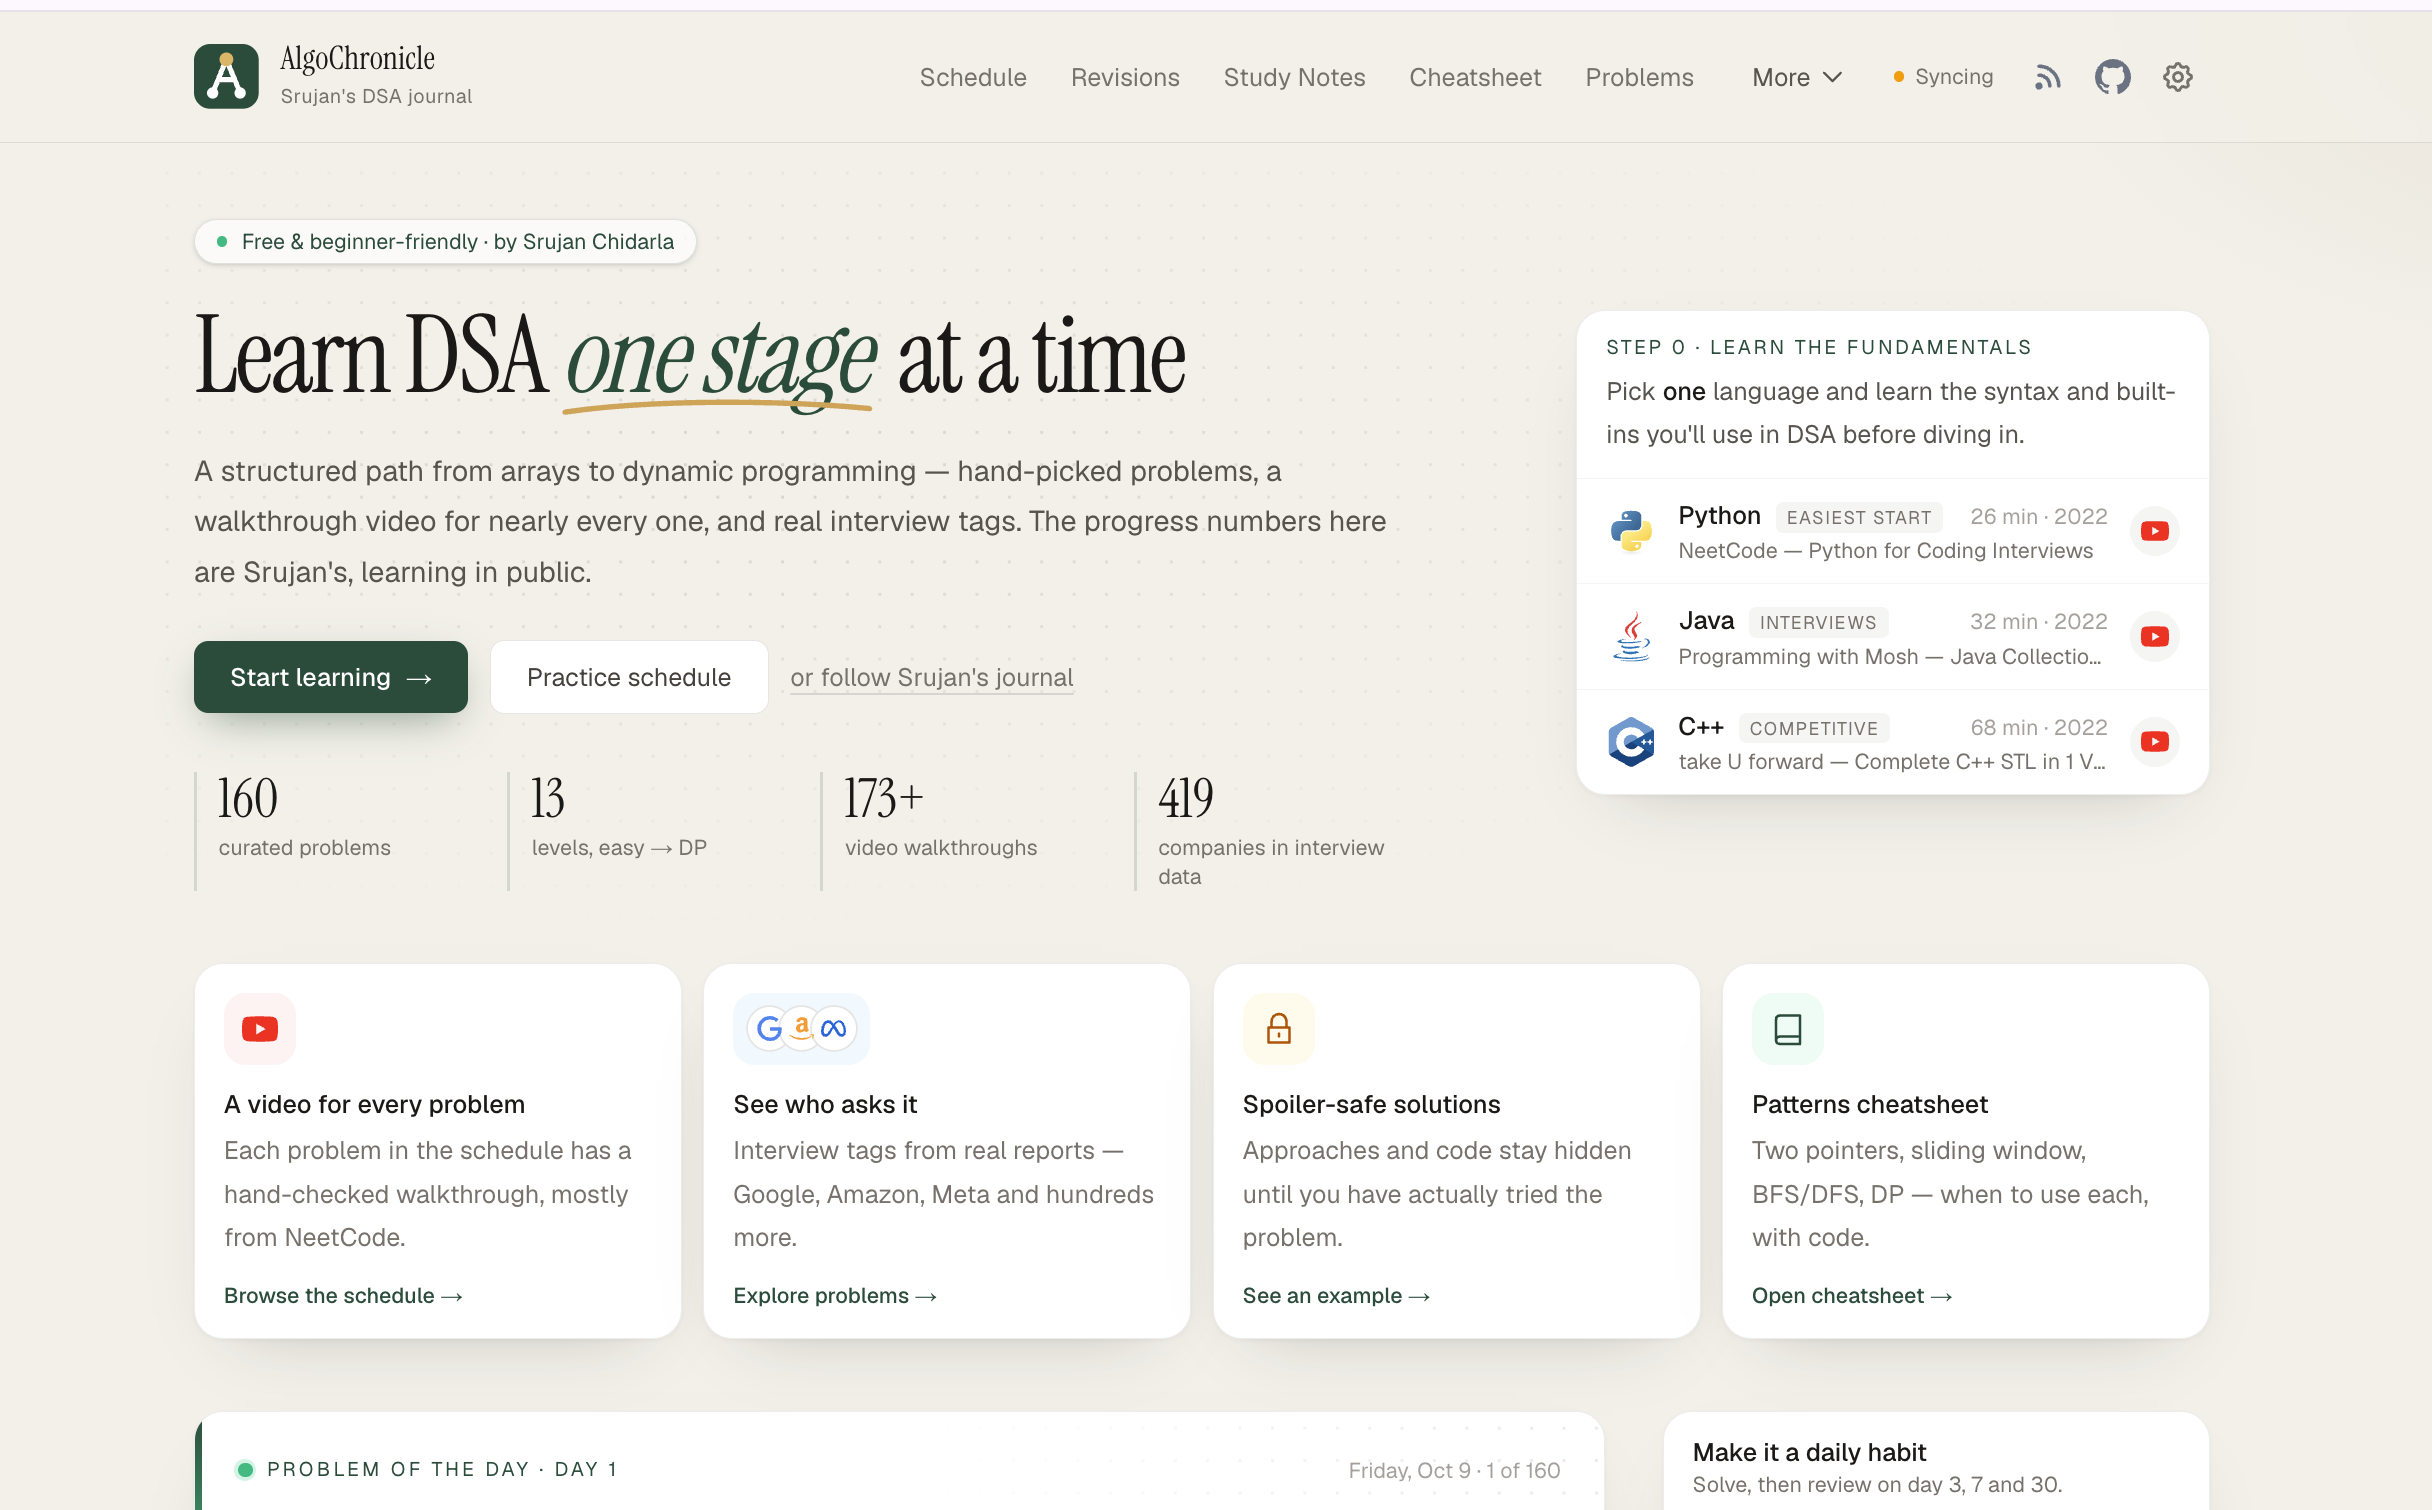
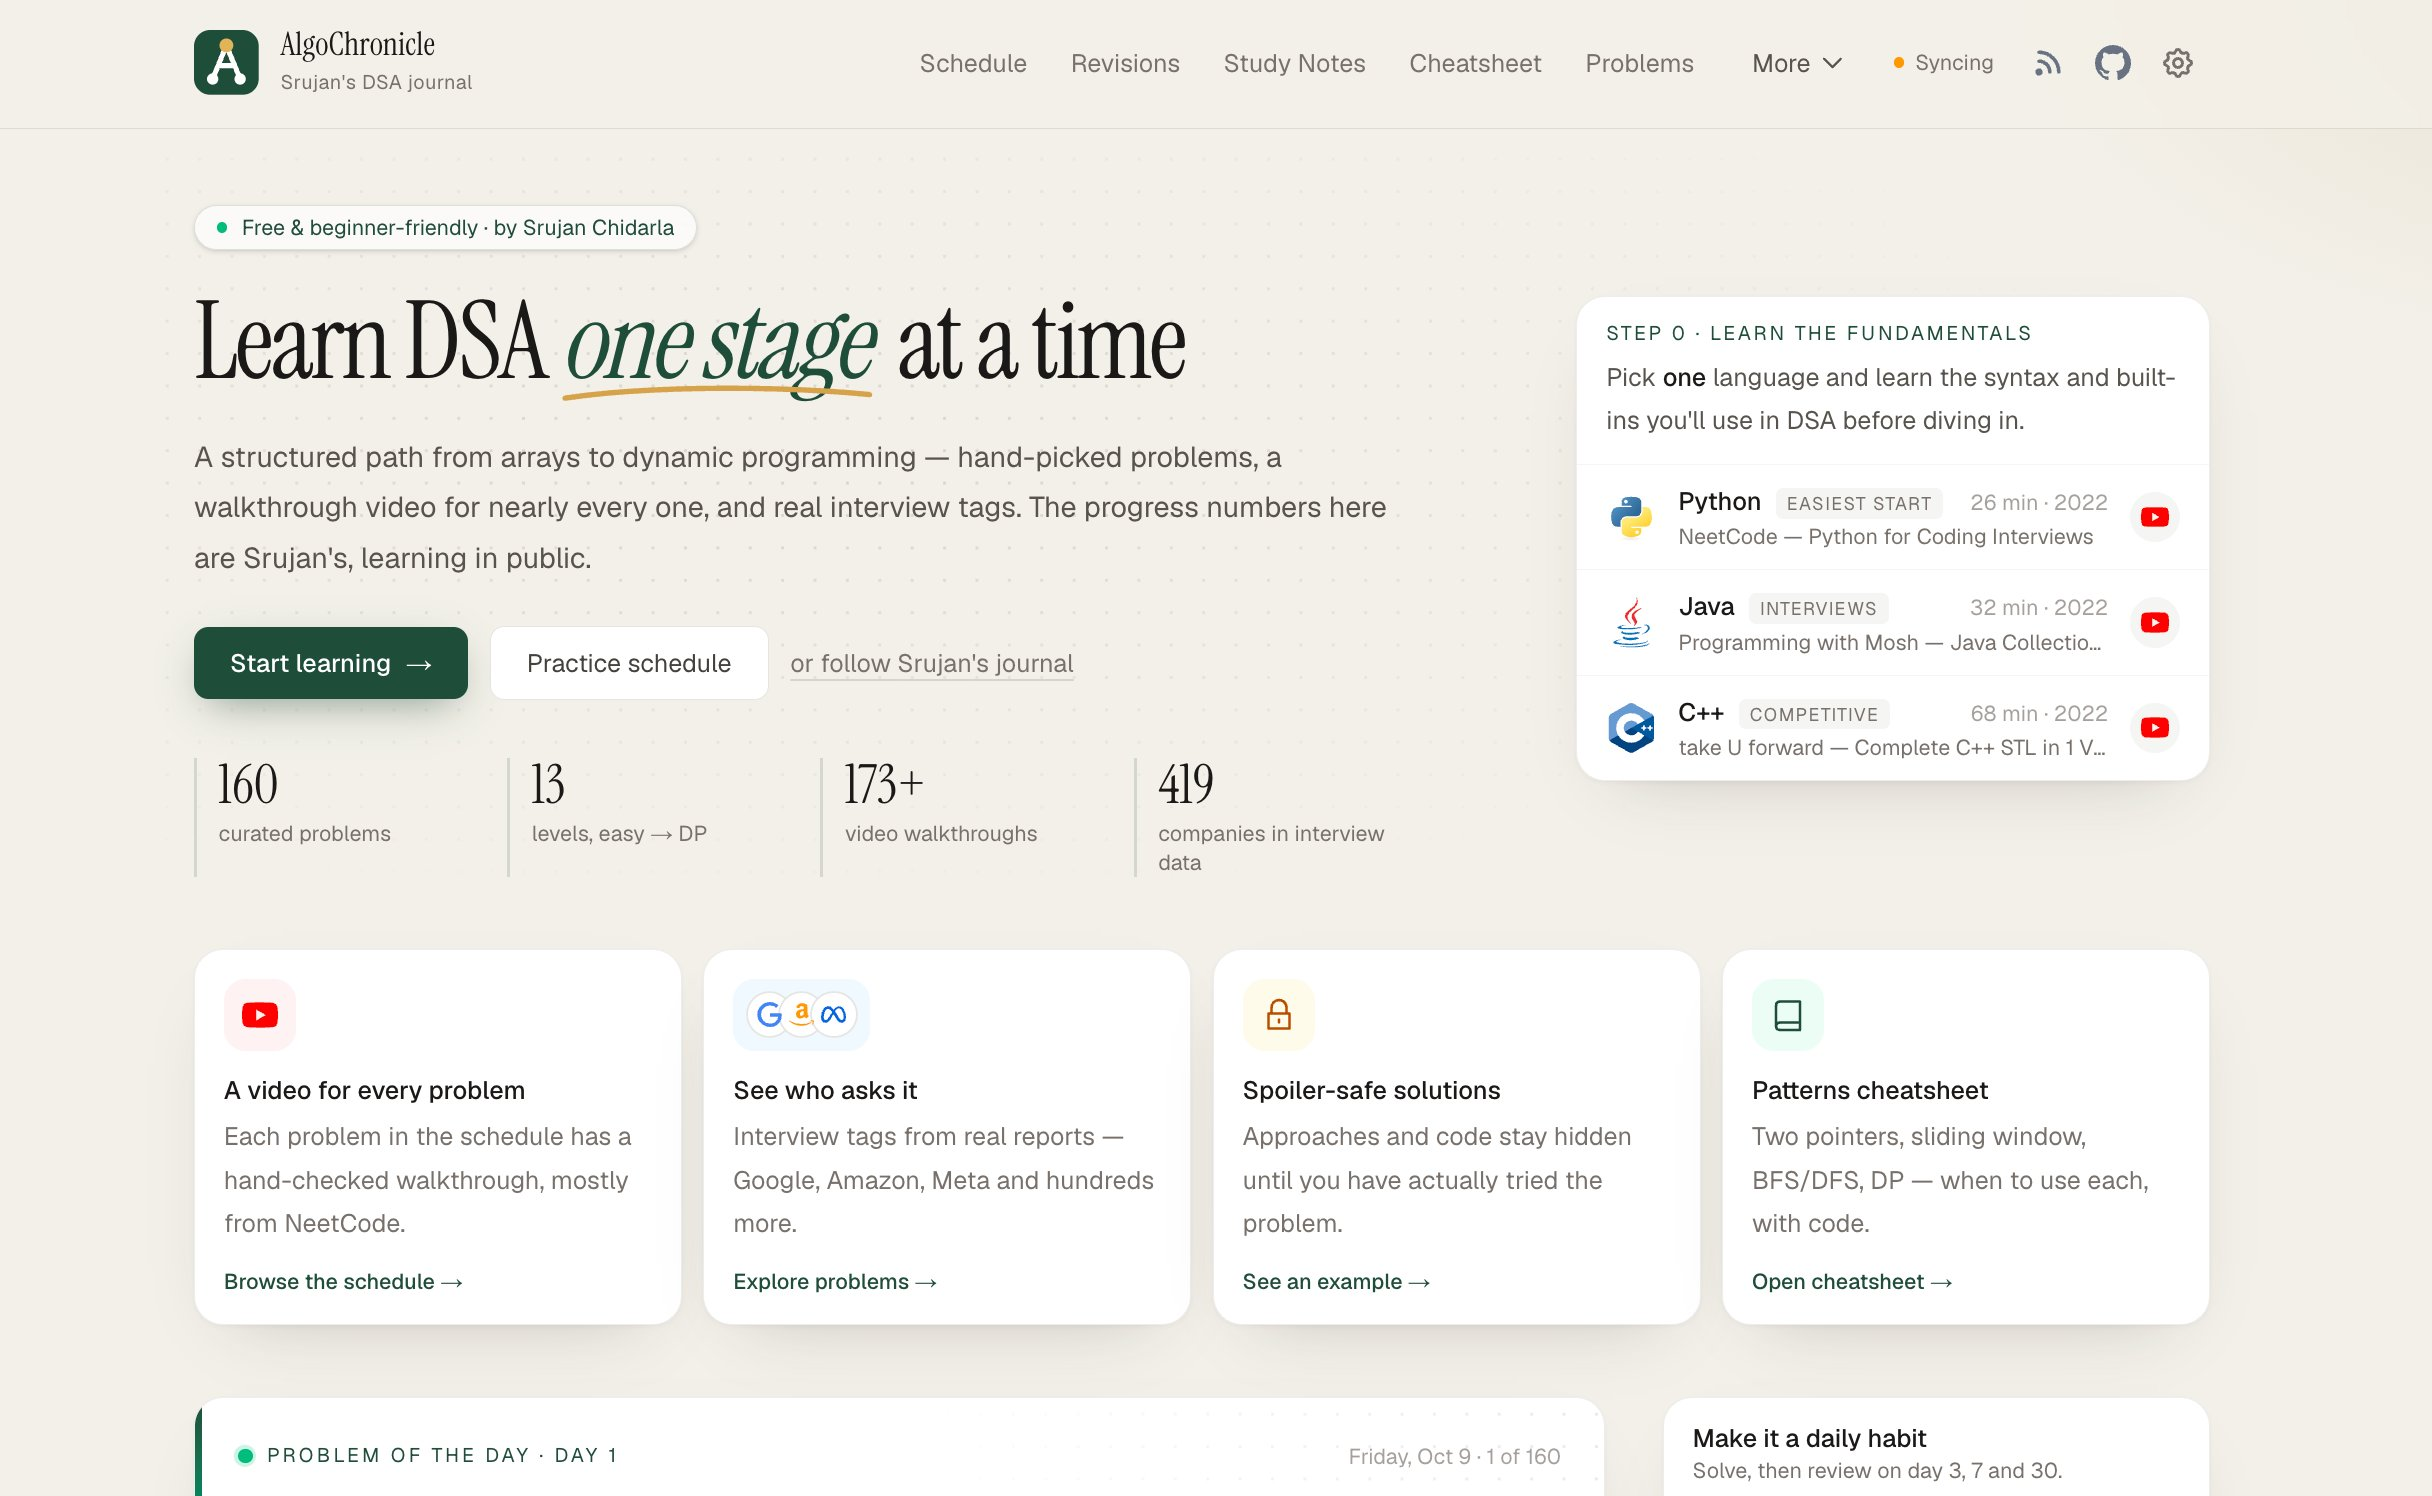
Feature AlgoChronicle first and show all projects without expand
Reorders the project tabs so AlgoChronicle leads, removes the
"view more" limit so all seven projects render up front, and wires
up the AlgoChronicle preview screenshot.

diff --git a/src/components/recruiter/ImpactProjects.tsx b/src/components/recruiter/ImpactProjects.tsx
@@ -7,11 +7,11 @@ import { ArrowUpRight, ExternalLink } from "lucide-react";
 import { IMPACT_PROJECTS } from "@/lib/recruiter-home";
 
 const PROJECT_ORDER = [
+  "algochronicle",
   "campfirechai",
   "jobhuntos",
   "neocortex",
   "agriwise",
-  "algochronicle",
   "studyglobal",
   "fitconnect",
 ] as const;
@@ -145,8 +145,8 @@ export default function ImpactProjects({ limit = CURATED_PROJECTS.length }: { li
             Products with <span className="gradient-text">real decisions behind them</span>
           </h2>
           <p className="section-subtitle">
-            Four projects first: the problem, what I built, the trade-offs I learned from, and a
-            working demo or source link. Three additional projects are available below.
+            Seven projects — the problem, what I built, the trade-offs I learned from, and a
+            working demo or source link for each.
           </p>
         </motion.header>
 

diff --git a/src/lib/recruiter-home.ts b/src/lib/recruiter-home.ts
@@ -132,6 +132,7 @@ export const IMPACT_PROJECTS = [
     title: "AlgoChronicle",
     tag: "DSA · Automation · Live",
     role: "Solo engineer · automation, data pipeline, and frontend",
+    previewImage: "/project-previews/algochronicle.jpg",
     lanes: ["Backend", "Full-Stack"],
     journey: "Turning GitHub commits into a self-updating coding journal",
     problem:

diff --git a/src/components/HomePage.tsx b/src/components/HomePage.tsx
@@ -27,7 +27,7 @@ export default function HomePage() {
         <HeroRecruiter />
         <ProofSection />
         <Experience />
-        <ImpactProjects limit={4} />
+        <ImpactProjects />
         <Suspense fallback={<DailyDSASkeleton />}>
           <DailyDSA />
         </Suspense>
